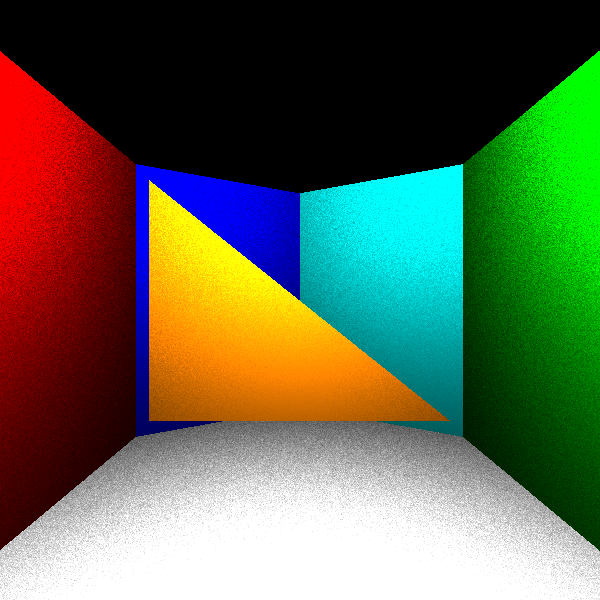
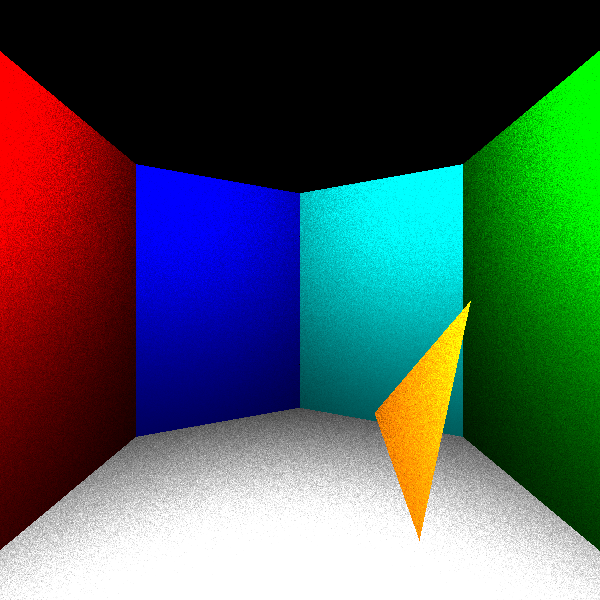
Point of no return
This shadow makes me wanna implode

Changed region(s): [[0.0, 0.15, 0.78, 1.0]]

diff --git a/source/polygon.cpp b/source/polygon.cpp
@@ -28,6 +28,32 @@ glm::vec3 Rectangle::PointInPolygon(const Ray& ray) const{
     glm::vec3 notOnPlane(-100,-100,-100);//Vector for when we do not intersect with the rectangle
     return notOnPlane;
 }
+
+// Is point obstructed by another object?
+bool Rectangle::IsPointObstructed(const Ray& ray, glm::vec3& intersectionPoint) const {
+    bool isOnPlane = IntersectPlane(ray);
+
+    if (isOnPlane) {
+        glm::vec3 s = ray.startVertex;
+        glm::vec3 d = ray.direction;
+        glm::vec3 v = vertices[0];
+        glm::vec3 c1 = vertices[1] - v;
+        glm::vec3 c2 = vertices[2] - v;
+        float t = glm::dot((v - s), recNormal) / glm::dot(d, recNormal);
+        intersectionPoint = s + t * d;
+
+        // a and b criterion
+        float a = glm::dot((intersectionPoint - v), c1) / glm::dot(c1, c1);
+        float b = glm::dot((intersectionPoint - v), c2) / glm::dot(c2, c2);
+        if (a >= 0 && a <= 1 && b >= 0 && b <= 1) {
+            intersectionPoint = intersectionPoint + recNormal * errorMargin;
+            return true;
+        }
+    }
+
+    return false;
+}
+
 bool Rectangle::IntersectPlane(const Ray& ray) const{
     //Calculate if the normal of the infinitally large plane is opposoite direction of the ray to know if the ray goes away from the plane or not
     //Dot product calculation
@@ -82,6 +108,32 @@ glm::vec3 Triangle::PointInPolygon(const Ray& ray) const{
     glm::vec3 notOnPlane(-100,-100,-100); //Vector for when we do not intersect with the triangle
     return notOnPlane;
 }
+
+// Is point obstructed by another object?
+bool Triangle::IsPointObstructed(const Ray& ray, glm::vec3& intersectionPoint) const {
+    bool isOnPlane = IntersectPlane(ray);
+
+    if (isOnPlane) {
+        glm::vec3 s = ray.startVertex;
+        glm::vec3 d = ray.direction;
+        glm::vec3 v = vertices[0];
+        glm::vec3 c1 = vertices[1] - v;
+        glm::vec3 c2 = vertices[2] - v;
+        float t = glm::dot((v - s), triNormal) / glm::dot(d, triNormal);
+        intersectionPoint = s + t * d;
+
+        // a and b criterion
+        float a = glm::dot((intersectionPoint - v), c1) / glm::dot(c1, c1);
+        float b = glm::dot((intersectionPoint - v), c2) / glm::dot(c2, c2);
+        if (a >= 0 && a <= 1 && b >= 0 && b <= 1) {
+            intersectionPoint = intersectionPoint + triNormal * errorMargin;
+            return true;
+        }
+    }
+
+    return false;
+}
+
 //Function to know if the ray intersects the triangle (or more like "does it come from the right direction")
 bool Triangle::IntersectPlane(const Ray &ray) const{
     //Calculate if the normal of the infinitally large plane is opposoite direction of the ray to know if the ray goes away from the plane or not

diff --git a/source/ray.cpp b/source/ray.cpp
@@ -8,16 +8,14 @@ Ray::Ray(glm::vec3 start, glm::vec3 direction, ColorDBL color, Ray* prev, Ray* n
 : startVertex(start), direction(glm::normalize(direction)), previousRay(prev), nextRay(next), color(color)  {   
 }
 
-ColorDBL Ray::castShadowRay(const Polygon* fromPolygon, const Light& lightsource) {
-
+ColorDBL Ray::castShadowRay(const Polygon* fromPolygon, const Light& lightsource,const std::vector<Polygon*>& allPolygons) {
     // Creates a white color
-    ColorDBL shadowIntensity = ColorDBL(0.0,0.0,0.0);
+    ColorDBL shadowIntensity = ColorDBL(0.0, 0.0, 0.0);
 
     // Number of shadow rays
     int nmrOfShadowrays = 5;
 
     for (int i = 0; i < nmrOfShadowrays; i++) {
-
         // Get a random point on the light source
         glm::vec3 p = lightsource.getRandomPointOnLight();
 
@@ -30,20 +28,18 @@ ColorDBL Ray::castShadowRay(const Polygon* fromPolygon, const Light& lightsource
             glm::vec3 normal = fromPolygon->getNormal();
             glm::vec3 lightDirection = glm::normalize(p - this->endVertex);
 
-            // Calculate cosines of the angles between the surface normal and light direction
             float cosThetaX = glm::dot(normal, lightDirection);
             float cosThetaY = glm::dot(normal, castedShadowRay.direction);
 
-            // Calculate the denominator of the Lambertian reflection formula
-            float denominator = pow(glm::length(p - this->endVertex),2);
+            float denominator = pow(glm::length(p - this->endVertex), 2);
 
-            double lamb = std::min(1.0,((lightsource.area * 3.14f * cosThetaX * cosThetaY) / denominator));
+            double lamb = std::min(1.0, ((lightsource.area * 3.14f * cosThetaX * cosThetaY) / denominator));
 
-            //std::cout << lamb << std::endl;
-
-            // Update shadow intensity using Lambertian reflection formula
-            shadowIntensity += ColorDBL(lamb,lamb,lamb);
-
+            shadowIntensity += ColorDBL(lamb, lamb, lamb);
+        }
+        else {
+           // The point is in shadow, update shadow intensity accordingly
+            shadowIntensity += ColorDBL(0.0, 0.0, 0.0);
         }
     }
 

diff --git a/source/main.cpp b/source/main.cpp
@@ -29,7 +29,7 @@ int main() {
     theScene.addCamera(theCamera);
 
     // Add objects (e.g., spheres, triangles) to the scene
-    theScene.addPolygon(new Triangle(glm::vec3(9, 5, -4), glm::vec3(9, -5, -4), glm::vec3(9, 5, 4), ColorDBL(0.98, 0.51, 0.01)));
+    theScene.addPolygon(new Triangle(glm::vec3(7, -2, -3), glm::vec3(4, -2, -4), glm::vec3(6, -4, 0), ColorDBL(0.98, 0.51, 0.01)));
 
 
     // Adds a light to the scene
@@ -64,7 +64,7 @@ int main() {
                     // Initializes the end vertex
                     rayFromPixel.endVertex = intersectionPoint;
 
-                    ColorDBL obtainedLight = rayFromPixel.castShadowRay(p,theLight);
+                    ColorDBL obtainedLight = rayFromPixel.castShadowRay(p,theLight,theScene.getTheRoom());
 
                     // Calculate t value for the intersection
                     float t = glm::length(intersectionPoint - rayFromPixel.startVertex);
@@ -78,8 +78,6 @@ int main() {
                     }
                 }
             }
-
-            //std::cout << closestColor.r << " + " << closestColor.g << " + " << closestColor.b << std::endl;
 
             // Assign the color of the closest intersection
             imagePlane[imageWidth - 1 - row][col] = closestColor;

diff --git a/include/polygon.h b/include/polygon.h
@@ -20,6 +20,8 @@ public:
     virtual bool IntersectPlane(const Ray& ray) const = 0;
     //returns the normal, should be used in the constructor
     virtual glm::vec3 getNormal() const = 0;
+    // Checks if a point is obstructed with an other object, causing shadow
+    virtual bool IsPointObstructed(const Ray& ray, glm::vec3& intersectionPoint) const = 0;
     //returns the color of the polygon
     ColorDBL color_;
     glm::vec3 normal;
@@ -42,6 +44,7 @@ public:
         color_ = color;
     }
     glm::vec3 PointInPolygon(const Ray& ray) const override;
+    bool IsPointObstructed(const Ray& ray, glm::vec3& intersectionPoint) const override;
     glm::vec3 recNormal;
     float getWidth() const;
     float getHeight() const;
@@ -65,6 +68,7 @@ public:
     }
     // Implement the Intersect method for triangles
     glm::vec3 PointInPolygon(const Ray& ray) const override;
+    bool IsPointObstructed(const Ray& ray, glm::vec3& intersectionPoint) const override;
     glm::vec3 triNormal;
 private:
     bool IntersectPlane(const Ray& ray) const override;

diff --git a/include/ray.h b/include/ray.h
@@ -20,5 +20,5 @@ public:
     Ray(glm::vec3 start, glm::vec3 direction, ColorDBL color = ColorDBL(0.0, 0.0, 0.0), Ray* prev = nullptr, Ray* next = nullptr);
 
     //Cast shadowray and will return the new ColorDBL from the light (if hit)
-    ColorDBL castShadowRay(const Polygon* fromPolygon, const Light& lightsource);
+    ColorDBL castShadowRay(const Polygon* fromPolygon, const Light& lightsource, const std::vector<Polygon*>& allPolygons);
 };
